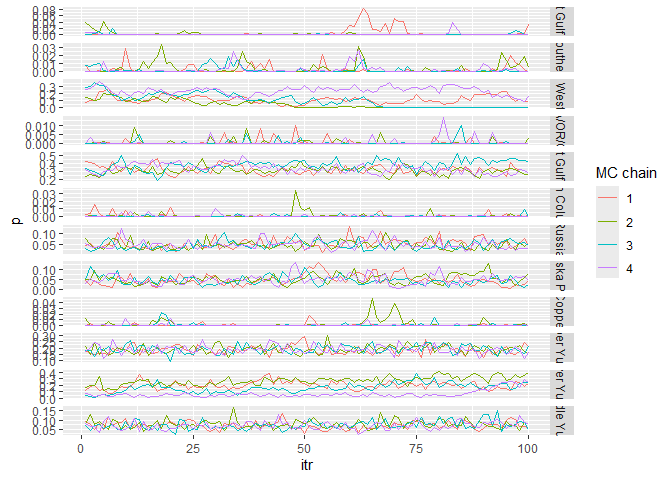
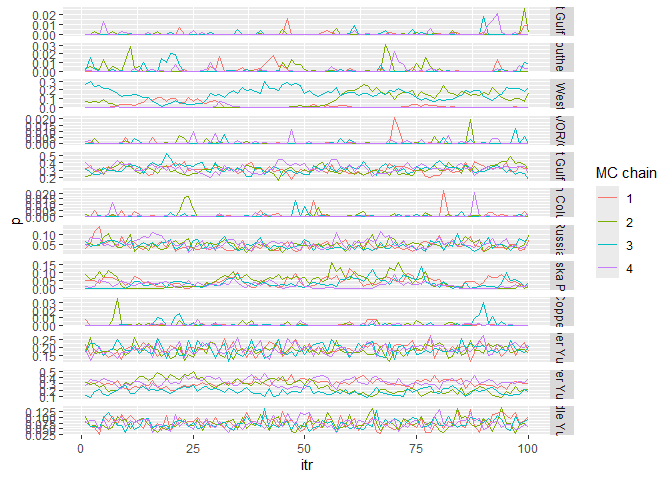
document updates on sstc

diff --git a/README.md b/README.md
@@ -45,7 +45,7 @@ msgsi_dat <-
   pop1_info = templin_pops211, pop2_info = yukon_pops50, sub_group = 3:5,
   harvest_mean = 500, harvest_cv = 0.05)
 #> Compiling input data, may take a minute or two...
-#> Time difference of 7.764232 secs
+#> Time difference of 6.868659 secs
 ```
 
 Using the prepared input data, we run the model with four chains of 150
@@ -57,48 +57,50 @@ convergence diagnostics.
 ``` r
 
 msgsi_out <- msgsi_mdl(msgsi_dat, nreps = 150, nburn = 50, thin = 1, nchains = 4)
-#> Running model... and good things come to Best Dressed!
-#> Time difference of 1.927239 secs
-#> March-26-2026 13:23
+#> Running model... and your attitude determines your Snow Ball!
+#> Time difference of 3.246345 secs
+#> June-30-2026 14:24
 
 msgsi_out$summ_comb
 #> # A tibble: 12 × 10
-#>    group           mean  median      sd    ci.05   ci.95    p0    GR n_eff    z0
+#>    group           mean  median      sd    ci.05   ci.95    p0    z0    GR n_eff
 #>    <chr>          <dbl>   <dbl>   <dbl>    <dbl>   <dbl> <dbl> <dbl> <dbl> <dbl>
-#>  1 Russia       4.77e-2 4.42e-2 0.0202  2.13e- 2 0.0874   0.01  1.02 259.  0    
-#>  2 Coastal Wes… 1.25e-1 1.10e-1 0.0979  1.58e-10 0.292    0.2   1.85  36.2 0.182
-#>  3 North Alask… 4.69e-2 4.44e-2 0.0237  1.41e- 2 0.0873   0.08  1.01 143.  0    
-#>  4 Northwest G… 3.37e-1 3.31e-1 0.0610  2.41e- 1 0.444    0     1.22 124.  0    
-#>  5 Copper       1.24e-3 1.29e-6 0.00437 1.99e-19 0.00849  1     1.20 253.  0.945
-#>  6 Northeast G… 2.54e-3 5.27e-6 0.00874 1.11e-17 0.0152   1     1.20 125.  0.89 
-#>  7 Coastal Sou… 2.32e-3 3.15e-5 0.00512 3.89e-16 0.0122   1     1.04 148.  0.818
-#>  8 British Col… 7.83e-4 1.39e-6 0.00267 4.98e-19 0.00429  1     1.10 319.  0.978
-#>  9 WA/OR/CA     5.70e-4 2.08e-6 0.00166 8.82e-20 0.00379  1     1.01 248.  0.99 
-#> 10 Lower Yukon  1.75e-1 1.82e-1 0.0970  2.88e- 2 0.335    0     2.03  45.8 0    
-#> 11 Middle Yukon 7.21e-2 7.06e-2 0.0225  4.12e- 2 0.112    0     1.01 331.  0    
-#> 12 Upper Yukon  1.88e-1 1.87e-1 0.0333  1.40e- 1 0.247    0     1.00 457.  0
+#>  1 Russia       4.99e-2 4.69e-2 0.0207  2.05e- 2 0.0887  0     0      1.03 230. 
+#>  2 Coastal Wes… 6.35e-2 1.38e-2 0.0801  3.09e-16 0.219   0.402 0.408  1.95  43.7
+#>  3 North Alask… 3.67e-2 3.15e-2 0.0296  5.12e- 6 0.0943  0.09  0.085  1.13  94.6
+#>  4 Northwest G… 3.15e-1 3.13e-1 0.0534  2.33e- 1 0.406   0     0      1.01 128. 
+#>  5 Copper       9.25e-4 8.21e-6 0.00303 1.92e-18 0.00573 0.818 0.86   1.09 261. 
+#>  6 Northeast G… 7.75e-4 7.37e-7 0.00267 2.54e-17 0.00447 0.855 0.872  1.01 306. 
+#>  7 Coastal Sou… 1.49e-3 3.19e-6 0.00404 4.75e-18 0.00985 0.792 0.792  1.04 151. 
+#>  8 British Col… 6.82e-4 1.82e-6 0.00243 5.09e-19 0.00343 0.858 0.902  1.01 292. 
+#>  9 WA/OR/CA     6.11e-4 5.41e-7 0.00214 1.16e-17 0.00404 0.87  0.9    1.01 338. 
+#> 10 Lower Yukon  2.69e-1 2.72e-1 0.0901  1.22e- 1 0.412   0     0      1.58 101. 
+#> 11 Middle Yukon 7.42e-2 7.26e-2 0.0218  4.03e- 2 0.113   0     0      1.01 400  
+#> 12 Upper Yukon  1.87e-1 1.85e-1 0.0320  1.35e- 1 0.243   0     0      1.01 400
 ```
 
 Summary for the stock-specific harvest is called separately:
 
 ``` r
 
-msgsi_harv_summ(msgsi_out, msgsi_dat)
-#> # A tibble: 12 × 6
-#>    repunit                  mean_harv median_harv sd_harv ci05_harv ci95_harv
-#>    <chr>                        <dbl>       <dbl>   <dbl>     <dbl>     <dbl>
-#>  1 Northeast Gulf of Alaska     1.12            0   4.00         0       7.05
-#>  2 Coastal Southeast Alaska     1.06            0   2.53         0       6   
-#>  3 Coastal West Alaska         63.5            59  49.0          0     149   
-#>  4 WA/OR/CA                     0.23            0   0.827        0       1   
-#>  5 Northwest Gulf of Alaska   170.            167  29.6        128.    222.  
-#>  6 British Columbia             0.288           0   1.09         0       2   
-#>  7 Russia                      24.4            22   9.25        13      41   
-#>  8 North Alaska Peninsula      23.8            22  11.0          8      44.0 
-#>  9 Copper                       0.612           0   2.14         0       5   
-#> 10 Upper Yukon                 56.6            56  18.3         30      85.0 
-#> 11 Lower Yukon                140.            138  28.1        106     192.  
-#> 12 Middle Yukon                22.9            22   8.19        12      38
+stratified_estimator_msgsi(msgsi_out, mixvec = "example")
+#> # A tibble: 12 × 15
+#>    repunit     mean_sstc sd_sstc median_sstc ci05_sstc ci95_sstc    mean      sd
+#>    <chr>           <dbl>   <dbl>       <dbl>     <dbl>     <dbl>   <dbl>   <dbl>
+#>  1 Northeast …     0.285   0.975         0           0      2    5.71e-4 0.00194
+#>  2 Coastal So…     0.648   1.78          0           0      4    1.30e-3 0.00351
+#>  3 Coastal We…    31.8    40.2           7.5         0    113.   6.37e-2 0.0801 
+#>  4 WA/OR/CA        0.225   0.947         0           0      1    4.50e-4 0.00185
+#>  5 Northwest …   156.     26.5         155         115    199.   3.15e-1 0.0493 
+#>  6 British Co…     0.232   0.970         0           0      1.05 4.71e-4 0.00195
+#>  7 Russia         24.4     9.20         23          12     41.0  4.92e-2 0.0181 
+#>  8 North Alas…    18.4    14.1          16           0     43    3.72e-2 0.0283 
+#>  9 Copper          0.37    1.45          0           0      2    7.44e-4 0.00292
+#> 10 Upper Yukon    93.1    13.7          93          71    117    1.88e-1 0.0266 
+#> 11 Lower Yukon   133.     42.8         135          64    203    2.70e-1 0.0867 
+#> 12 Middle Yuk…    36.8     9.59         36          23     55    7.42e-2 0.0190 
+#> # ℹ 7 more variables: median <dbl>, ci05 <dbl>, ci95 <dbl>, `P=0` <dbl>,
+#> #   `Z=0` <dbl>, GR <dbl>, n_eff <dbl>
 ```
 
 Individual assignment summary:
@@ -109,16 +111,16 @@ indiv_assign(msgsi_out, msgsi_dat)
 #> # A tibble: 150 × 13
 #>    ID      Russia `Coastal West Alaska` `North Alaska Peninsula`
 #>  * <chr>    <dbl>                 <dbl>                    <dbl>
-#>  1 fish_1  0                     0.485                    0     
-#>  2 fish_2  0                     0.3                      0.0875
-#>  3 fish_3  0.01                  0.0575                   0.405 
-#>  4 fish_4  0                     0.415                    0.0275
-#>  5 fish_5  0                     0.457                    0.01  
-#>  6 fish_6  0                     0.31                     0     
-#>  7 fish_7  0.09                  0.172                    0.178 
-#>  8 fish_8  0.155                 0.225                    0.0325
-#>  9 fish_9  0.0075                0.258                    0.005 
-#> 10 fish_10 0.0425                0.155                    0.06  
+#>  1 fish_1  0                     0.128                    0     
+#>  2 fish_2  0.0025                0.0975                   0.0275
+#>  3 fish_3  0.03                  0.035                    0.255 
+#>  4 fish_4  0                     0.222                    0.0225
+#>  5 fish_5  0                     0.1                      0     
+#>  6 fish_6  0                     0.185                    0.0025
+#>  7 fish_7  0.11                  0.0775                   0.075 
+#>  8 fish_8  0.145                 0.055                    0.035 
+#>  9 fish_9  0.01                  0.09                     0.0025
+#> 10 fish_10 0.0775                0.06                     0.0525
 #> # ℹ 140 more rows
 #> # ℹ 9 more variables: `Northwest Gulf of Alaska` <dbl>, Copper <dbl>,
 #> #   `Northeast Gulf of Alaska` <dbl>, `Coastal Southeast Alaska` <dbl>,
